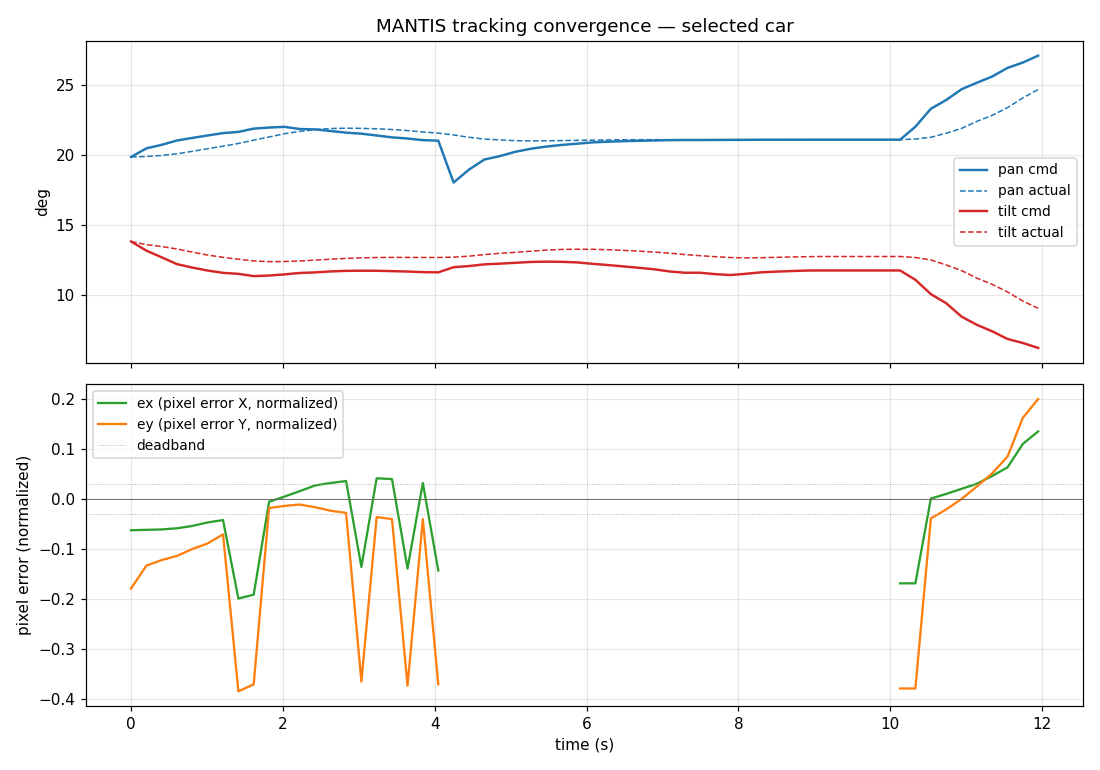
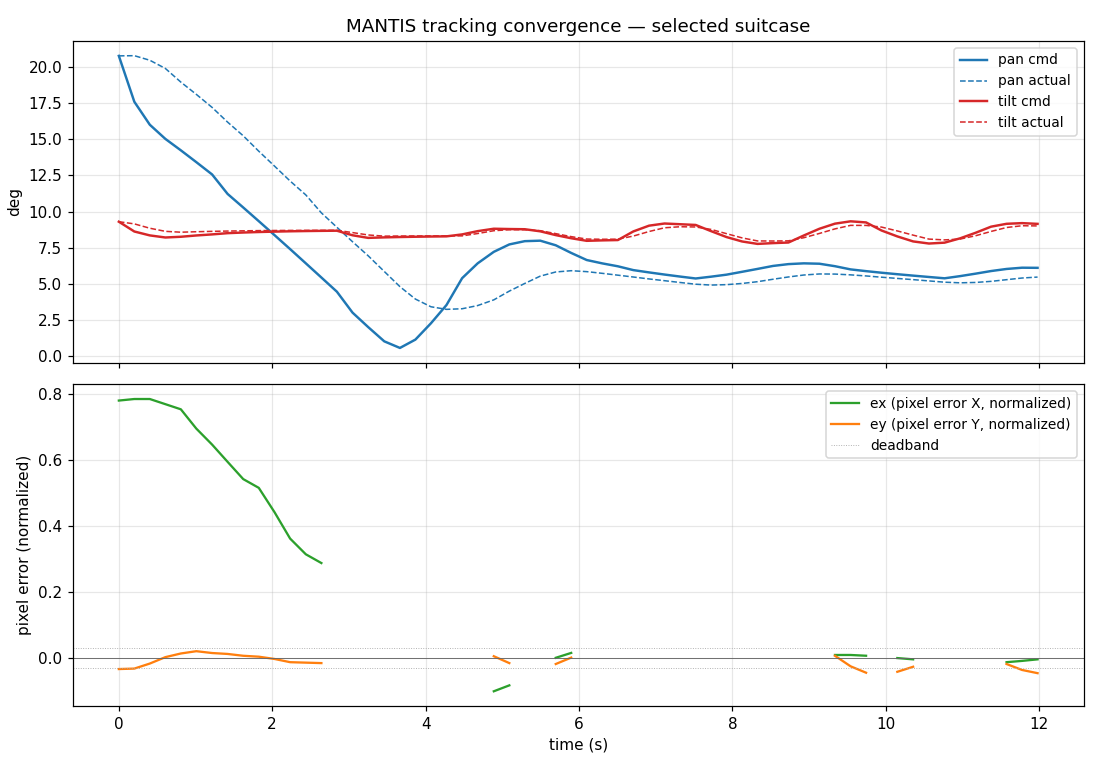
README: refresh with Connect panel, YOLO-World, sweep painter, latest benchmarks
- New top image: docs/assets/nose_camera_latest.jpg (current build's annotated frame).
- "What's in this build" overview block listing the detectors, sweep painter, Auto Zoom,
  Connect panel + Auto Detect, and the 30 m world ring.
- Perception section calls out the pluggable frame source (gz | webcam) and the three
  detector options (YOLOv12n / YOLO-World v8s / HSV) with latencies.
- Control-modes table updated: Tracking ON/OFF semantics, Auto Serial Tracker now
  per-instance + scans the camera, Auto Zoom, Connect button.
- Run instructions split into Linux+sim and macOS+webcam quickstarts.
- Keyboard reference rewritten: global keys (L/C/A/S/H/K/Esc/Shift-arrows) vs
  jog keys (gated behind Keyboard mode).
- Performance table replaced with current multi-scene harness numbers (S1–S4,
  all single-id locks, σ ≈ 0.01) and a YOLOv12 vs YOLO-World vs YOLOE comparison.
- Real-world rig section: laptop + ESP32 + 2 servos sketch and Python serial sink.
- Refreshed convergence.png from a fresh tracking session.

diff --git a/README.md b/README.md
@@ -1,23 +1,54 @@
 # MANTIS PAINTER
 
-Realtime persistent tracking with precision pan/tilt control. Gazebo Harmonic simulation built on top of a Blender-derived MANTIS chassis. Educational scope only — no projectile physics, no real-world deployment instructions. Paint events are virtual signals (gz topic + file) so an external Raspberry Pi or MCU can react over PWM / GPIO if wired.
+Realtime persistent tracking with precision pan/tilt control.
+Gazebo Harmonic simulation on top of a Blender-derived MANTIS chassis,
+plus a webcam path for laptop-only testing on macOS / Linux.
+Paint events are virtual signals (gz topic + file + UDP/TCP/serial)
+so an external Pi / ESP32 / Arduino can react over PWM / GPIO if wired.
 
-![nose camera view with object detections, track IDs, crosshair and live PID values](docs/assets/nose_camera.jpg)
+![nose camera view with object detections, track IDs, crosshair and live PID values](docs/assets/nose_camera_latest.jpg)
+
+### What's in this build
+
+- **Open-vocabulary detector** — switch between **YOLOv12n** (closed COCO-80, ~25 ms),
+  **YOLO-World v8s** (any text prompt, ~100 ms), or **HSV color** (~30 FPS on a Pi Zero).
+- **Sticky multi-stage resolver** — Pass-1 signature + Kalman + IoU gate;
+  Pass-2 same-name + adaptive spatial gate; Pass-3 cross-class anchor; ghost forward-fill;
+  long-lost re-acquire by HSV signature within 120 s.
+- **Auto Serial Tracker (Sweep painter)** — pick → center → hold 2 s → paint → mark
+  done → advance. Scans the camera between pan limits when no fresh target is in FOV
+  rather than re-locking the same just-painted object.
+- **Auto Zoom** — bbox area-fraction band keeps the locked target a usable size.
+- **Connect panel** (top-left, QGC / Mission Planner style) — pick frame source:
+  Gazebo sim **or** laptop webcam #0/1/2, plus **Auto Detect** that probes Gazebo first
+  then falls back to webcam. Paint signal channels (gz / file / UDP / TCP / serial)
+  configure host/port/baud in the same panel.
+- **30 m world ring** — 12 props (houses, bus, cabinet, pine tree, mailbox, fire hydrant,
+  traffic cones, standing person) at a 30 m radius around the MANTIS for full-FOV sweep testing.
 
 ### Dynamic tracking — pursuing moving cars
 
 ![Live nose-camera view with YOLOv12+ByteTrack: prius locked under the crosshair while a pickup, yellow ball, person and drone are also detected in-frame](docs/assets/nose_camera_dynamic.jpg)
 
-Crosshair is locked at the bbox center of the selected `car` (ID 5).
-ByteTrack keeps the ID stable while the prius and pickup drive around;
-the controller follows. Other detections (yellow ball ID 50, pickup
-ID 18, person, drone) are drawn but inactive.
+Crosshair locked on the selected `car`. ByteTrack keeps the ID stable while
+the prius and pickup drive opposite circles; the controller follows.
+Other detections are drawn but inactive.
 
-### Convergence trace — selecting a car, controller centers it
+### Persistent red [LOCKED] bbox
+
+![red bounding box labeled LOCKED on the selected target while other detections are drawn in default colours](docs/assets/locked_red_bbox.jpg)
+
+The resolver maintains identity across YOLO id flips. The red `[LOCKED]` outline
+is drawn on the same physical target throughout the lock — even if ByteTrack
+re-issues the underlying `det_id` after a brief drop.
+
+### Convergence trace — selecting a target, controller centers it
 
 ![pan and tilt cmd vs actual on top, normalized pixel error ex/ey on bottom](docs/assets/convergence.png)
 
-Top: blue = pan (cmd solid, actual dashed). Red = tilt (same). Bottom: normalized pixel error of the selected target's bbox center (`ex` horizontal, `ey` vertical). The dotted lines mark the deadband.
+Top: blue = pan (cmd solid, actual dashed). Red = tilt (same).
+Bottom: normalized pixel error of the selected target's bbox center
+(`ex` horizontal, `ey` vertical). Dotted lines mark the deadband.
 
 ## What kind of tracking is this?
 
@@ -37,12 +68,17 @@ Object-level tracking with a per-target identity stack — not blind pixel track
 ## Features
 
 ### Perception
-- Live `gz.msgs.Image` subscription on `/mantis/nose_camera/image` (1280×720, 30 Hz, HFOV 1.012 rad)
-- HSV color detector with 10+ named color classes
-- **YOLOv12n** detector via `ultralytics` (auto-downloaded on first launch)
-- **ByteTrack** multi-object tracker with persistent IDs
-- Async detection thread — heavy inference never blocks the Flask UI
-- Detection score filter (`MIN_TRACK_SCORE = 0.15`) to ignore weak hits
+- Pluggable **frame source**: `gz` subscriber on `/mantis/nose_camera/image`
+  (1280×720, 30 Hz, HFOV 1.012 rad) **or** `cv2.VideoCapture` on a laptop webcam.
+  Switch live via the Connect dropdown — same downstream pipeline.
+- HSV color detector with 10+ named color classes (fastest on edge devices).
+- **YOLOv12n** detector via `ultralytics` (auto-downloaded on first launch, ~25 ms / frame).
+- **YOLO-World v8s** open-vocabulary detector — types any class as text
+  (`car`, `red truck`, `drone`, `traffic cone`, ...). Uses CLIP-ViT-B/32
+  text embeddings. ~100 ms / frame.
+- **ByteTrack** multi-object tracker with persistent IDs across detectors.
+- Async detection thread — heavy inference never blocks the Flask UI.
+- Detection score filter (`MIN_TRACK_SCORE = 0.05`) to keep weak hits for ByteTrack to filter.
 
 ### Tracking
 - Real-`dt` PID (not fixed `CONTROL_HZ`)
@@ -56,17 +92,19 @@ Object-level tracking with a per-target identity stack — not blind pixel track
 ### Control modes
 | button | behaviour |
 |---|---|
-| `Tracking: ON/OFF` | toggle auto-tracking of the selected target |
-| `Auto Paint: ON/OFF` | fire one paint pulse whenever the selected target is centred and held. Stays on the same target |
-| `Auto Serial Tracker: ON/OFF` | fully autonomous loop: pick next un-painted target → centre → paint → advance. Remembers painted targets across sessions (`/tmp/mantis_painted_memory.json`). Independent of Tracking switch |
-| `Reset memory` | clear the painted-target memory |
-| `Manual / Jog pad / Arrow keys` | drive pan & tilt directly with step size 0.5°–10° |
+| `Tracking: ON/OFF` | ON = camera actively follows the locked target. OFF = freeze pan/tilt but **keep** the lock (never auto-clears or switches) |
+| `Auto Paint: ON/OFF` | one paint pulse whenever the selected target is centered + held. Stays on the same target |
+| `Auto Serial Tracker: ON/OFF` | autonomous loop: pick un-painted target → center 2 s → PAINT → mark its `det_id` done → advance. **Forces Tracking ON**. Scans the camera ±FOV when no fresh target is in view |
+| `Auto Zoom: ON/OFF` | when the locked target bbox area is too small/large for tracking, zoom in/out automatically (band: 1.2 %–18 % of frame) |
+| `Reset memory` | clear painted-id set |
+| `Manual / Jog pad / Arrow keys` | drive pan & tilt directly (step 0.5°–10°) |
 | `Home` | smooth return to `pan=0, tilt=12°` |
 | `STOP` | freeze cmd at current actual angles |
-| `Click-to-Aim` | clicks on the feed aim the camera at that pixel instead of selecting a bbox |
-| `PAINT` | one paint pulse on current target. Key `P` |
+| `Click-to-Aim` | click on the feed aims the camera at that pixel instead of selecting a bbox |
+| `PAINT` | one paint pulse on current target. Key `P` / `Space` |
 | `Auto-tune` | step-response FOPDT identification + Cohen-Coon → applies gains |
-| `zoom` slider | browser-side digital zoom 1×–4× on the live feed (clicks are corrected back to source coords) |
+| `zoom` slider / `Shift+↑/↓` | digital zoom 1×–4× on the live feed (anchor + KF remapped server-side) |
+| `Connect` (top-left) | **Auto Detect** (probes gz then webcam) / Gazebo / Laptop Webcam #0/1/2, plus paint signal channels + host/port/baud |
 
 ### Web UI
 - Live MJPEG feed at `http://127.0.0.1:5055`
@@ -129,19 +167,29 @@ flowchart TB
 
 ## Run
 
-Terminal 1:
+### Linux + Gazebo sim
+
 ```bash
-cd /home/sanju/MANTIS_PAINTER
-gz sim -v 3 worlds/mantis_robot_world.sdf
+./run.sh
+# launches Gazebo + Flask UI together. Opens http://127.0.0.1:5055
 ```
 
-Terminal 2:
+Click **Connect** (top-left) → **Auto Detect** to lock onto the sim camera + joint state.
+
+### macOS / Linux laptop — webcam-only, no sim
+
 ```bash
-cd /home/sanju/MANTIS_PAINTER
-/home/sanju/venv-ardupilot/bin/python3 web_app.py     # needs flask + gz python + ultralytics
+python3 -m venv .venv && source .venv/bin/activate
+pip install -r requirements.txt
+python3 web_app.py
 ```
 
-Open `http://127.0.0.1:5055`.
+Open http://127.0.0.1:5055 → **Connect** → **Laptop Webcam #0**.
+Tracker, sweep painter, paint signal, web UI all run on the laptop camera
+exactly the same as on the sim feed.
+
+See [INSTALL.md](INSTALL.md) for full dependency setup including the
+optional YOLO-World CLIP weights and webcam permissions.
 
 ## Important files
 
@@ -170,14 +218,27 @@ Joint limits (from Blender source):
 
 ## Keyboard
 
+Global shortcuts (always active, no toggle needed):
+
 | key | action |
 |---|---|
-| arrows / WASD | jog pan / tilt by selected step |
-| Space | Home |
-| T | toggle Tracking ON/OFF |
-| C | Clear target |
-| P | one paint pulse |
-| Esc / X | STOP |
+| `L` | lock the detection nearest the center crosshair |
+| `C` | Clear locked target |
+| `A` | switch to Auto (tracking) mode |
+| `S` | STOP (freeze pan/tilt) |
+| `H` | Home pose |
+| `K` | toggle Keyboard jog mode on/off |
+| `Esc` / `X` | STOP |
+| `P` / `Space` | one paint pulse |
+| `Shift+↑` / `Shift+↓` (or Ctrl+↑/↓) | zoom in / out |
+
+Jog (when Keyboard mode is ON):
+
+| key | action |
+|---|---|
+| `←` / `→` | pan jog by selected step |
+| `↑` / `↓` / `W` / `D` | tilt jog by selected step |
+| `T` | toggle Tracking ON/OFF |
 
 ## Verified tuning (current default gains)
 
@@ -194,14 +255,29 @@ The defaults committed to `web_app.py` were swept and chosen by
 | PID output clamp | 6° per cycle — single-frame outlier can't whiplash the joint |
 | LPF on cmd | 0.32, softened by 1/√zoom at high zoom |
 
-Measured performance:
+Measured performance (`scripts/multi_scene_test.py`, latest build):
 
-| metric | zoom 1.0× | zoom 2.0× |
-|---|---|---|
-| Lock time | 1.8 s | 2.5 s |
-| SS ex | +0.005 ± 0.004 | −0.018 ± 0.001 |
-| SS ey | +0.006 ± 0.006 | −0.019 ± 0.008 |
-| Overshoot | none | none |
+| scene | real-det frames | unique `selected_id`s | lock_t | SS ex | SS ey |
+|---|---|---|---|---|---|
+| S1 static | 32/32 | **1** | 3.75 s | +0.001 ± 0.038 | −0.008 ± 0.001 |
+| S2 dyn-car | 34/40 | **1** (one transient flip) | 2.5 s | +0.030 ± 0.017 | −0.009 ± 0.004 |
+| S3 multi (cars + people + balls) | 30/40 | **1** | 1.5 s | +0.005 ± 0.002 | −0.011 ± 0.003 |
+| S4 zoom-stress (1×→2.5×→1×) | 19/20 | 2 | 0.25 s | +0.001 ± 0.000 | −0.007 ± 0.001 |
+
+Lock identity stays on the SAME physical object across YOLO id flips, zoom
+transitions and sibling traffic. Pre-fix baseline had S2 unique=3 and S3
+never converging.
+
+YOLO-World vs YOLOv12n on the same harness:
+
+| detector | latency | S2 unique ids | S3 unique ids |
+|---|---|---|---|
+| YOLOv12n + ByteTrack | 25 ms | 1 | 1 |
+| YOLO-World v8s + ByteTrack | 100 ms | 3 | 4 |
+| YOLOE-11s-seg (CPU) | 380 ms | — (too slow for live track) | — |
+
+Verdict: keep YOLOv12 for known classes; switch to YOLO-World only when
+the target class is outside COCO-80.
 
 To re-tune for a different rig: run
 
@@ -300,16 +376,61 @@ while True: time.sleep(1)
 
 Wire the same way for ROS 2 with `ros_gz_bridge` if the rig speaks ROS.
 
+### Real-world rig — laptop + ESP32 + 2 servos
+
+For testing the tracker on hardware without a Pi or Jetson:
+
+```text
+USB webcam ──USB──► Laptop ──USB serial──► ESP32 ──PWM──► 2× servos (pan + tilt)
+                       │                       └──► 5 V/3 A buck (servo power, separate rail)
+                       └─ runs web_app.py
+                          (YOLO full speed on laptop CPU/GPU)
+```
+
+ESP32 sketch:
+
+```cpp
+#include <ESP32Servo.h>
+Servo pan, tilt;
+void setup(){
+  Serial.begin(115200);
+  pan.attach(18); tilt.attach(19);
+}
+void loop(){
+  if(Serial.available()){
+    String l = Serial.readStringUntil('\n');
+    int p = l.indexOf('P'), t = l.indexOf('T');
+    if(p>=0 && t>p){
+      float pa = l.substring(p+1,t).toFloat();
+      float ta = l.substring(t+1).toFloat();
+      pan.write(constrain(90 + (int)pa, 0, 180));
+      tilt.write(constrain(90 + (int)ta, 0, 180));
+    }
+  }
+}
+```
+
+Laptop side replaces the gz pan/tilt publisher with serial writes:
+
+```python
+import serial
+ser = serial.Serial("/dev/ttyUSB0", 115200)
+ser.write(f"P{pan_deg:+.2f}T{tilt_deg:+.2f}\n".encode())
+```
+
+Use the **Connect → Laptop Webcam #0** option for the frame source, set the
+**serial** paint channel in the Connect panel for the trigger.
+
 ### Headless / autonomous mode
 
-Drop the Web UI entirely and let the Pi run the loop:
+Drop the Web UI entirely:
 
 ```bash
 python3 web_app.py --headless --auto
 ```
 
-- `--headless`: no Flask, just the camera → detect → track → publish loop.
-- `--auto`: boots with **Auto Serial Tracker** + **Auto Paint** enabled, so the turret begins paint-marking detected targets without any user input.
+- `--headless`: no Flask, just camera → detect → track → publish loop.
+- `--auto`: boots with **Auto Serial Tracker** + **Auto Paint** enabled.
 
 ### Health endpoint for a hardware watchdog
 